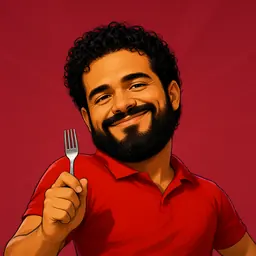
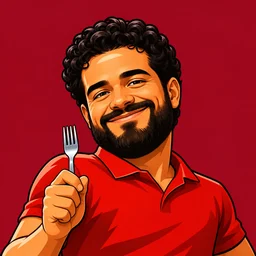
Arte rehecho con ChatGPT Image 2.5: los seis carros restantes, las ocho pistas, los once pilotos y la portada
Claude-Session: https://claude.ai/code/session_01NtL1JgdPH9mVcJV5xgCkMK

diff --git a/scripts/art/README.md b/scripts/art/README.md
@@ -8,3 +8,5 @@
 - Elegidas: `icon-s11`, `cover-s7`, `world-*-s5`, `pilot-*-s3` (semilla, roman, cucukis) y `pilot-*-s8` (el resto, corregidos). Exportadas a WebP: portada 1344×768 (q80), pistas 640×366 (q74), retratos 256×256 (q76).
 
 - La tarjeta de El Tiburón (`public/art/car-el-tiburon.webp`) no salió de ComfyUI: Qwen Image lo dibujaba como hatchback. Se generó con ChatGPT Image 2.5 desde Codex, usando una foto del Yaris sedán como referencia de forma y otra tarjeta como referencia de estilo.
+
+- El 9 de noviembre de 2026 se rehicieron las 27 imágenes de `public/art/` (carros, pistas, pilotos y portada) con ChatGPT Image 2.5 desde Codex, cada una usando la versión anterior como referencia de contenido y la tarjeta de El Tiburón como referencia de estilo. Los originales a tamaño completo quedaron en el Mac, en `work/codex/nuevo/`.
